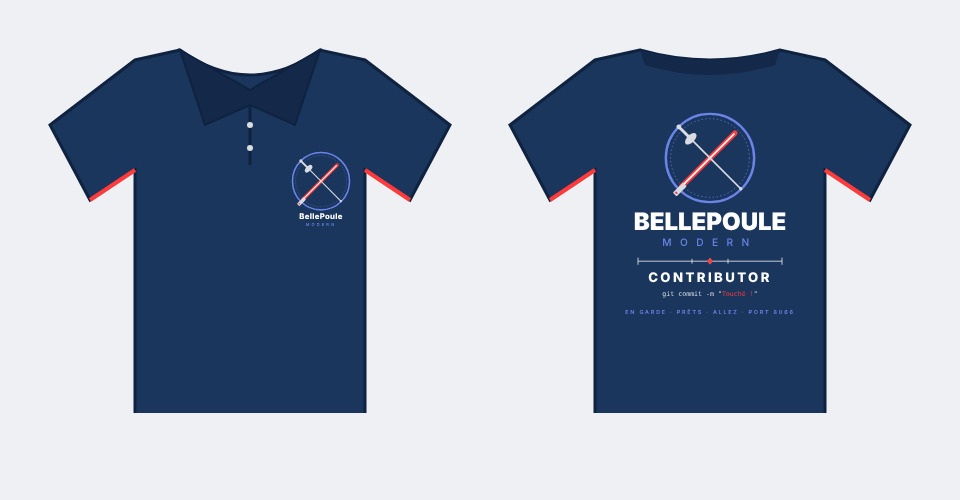
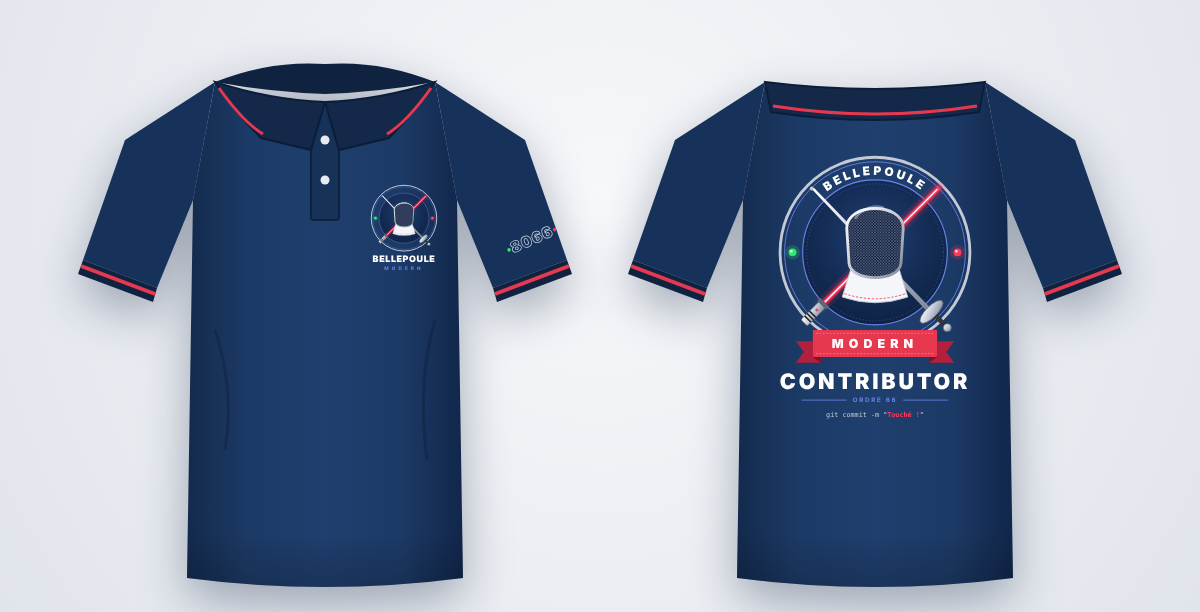
🎽 Polo contributeurs : blason masque + lames croisées
Dos : blason (masque, fleuret, sabre laser, lampes de touche), ruban MODERN, CONTRIBUTOR.
Cœur : blason réduit. Manche : 8066. Mockup refait.

Claude-Session: https://claude.ai/code/session_01FYQVi1Uu99rfAuTf6KhJkh

Changed region(s): [[0.0312, 0.09, 0.9688, 1.0]]

diff --git a/docs/merch/mockup.html b/docs/merch/mockup.html
@@ -1,15 +1,51 @@
 <!doctype html><html><head><meta charset="utf-8"><title>Polo BellePoule</title>
-<style>body{margin:0;overflow:hidden;background:#eef0f4;font-family:Inter,sans-serif;display:flex;gap:40px;justify-content:center;padding:30px}
-.v{position:relative;width:420px;text-align:center;color:#2d3748;font-weight:600}
-.v svg.shirt{width:420px}
-.print{position:absolute}</style></head><body>
-<div class="v"><svg class="shirt" viewBox="0 0 420 460"><path d="M140 20 L95 30 L10 95 L50 170 L95 140 L95 445 L325 445 L325 140 L370 170 L410 95 L325 30 L280 20 Q210 70 140 20Z" fill="#1a365d" stroke="#0f2340" stroke-width="3"/>
-<path d="M140 20 L210 60 L280 20 L255 95 L210 75 L165 95Z" fill="#14294a" stroke="#0f2340" stroke-width="2"/>
-<line x1="210" y1="75" x2="210" y2="135" stroke="#0f2340" stroke-width="3"/><circle cx="210" cy="95" r="3" fill="#d9dde3"/><circle cx="210" cy="118" r="3" fill="#d9dde3"/>
-<path d="M95 140 L50 170" stroke="#ff3b3b" stroke-width="4"/><path d="M325 140 L370 170" stroke="#ff3b3b" stroke-width="4"/></svg>
-<img class="print" src="front-chest.svg" style="left:250px;top:120px;width:62px">Avant</div>
-<div class="v"><svg class="shirt" viewBox="0 0 420 460"><path d="M140 20 L95 30 L10 95 L50 170 L95 140 L95 445 L325 445 L325 140 L370 170 L410 95 L325 30 L280 20 Q210 40 140 20Z" fill="#1a365d" stroke="#0f2340" stroke-width="3"/>
-<path d="M140 20 Q210 40 280 20 L275 35 Q210 55 145 35Z" fill="#14294a"/>
-<path d="M95 140 L50 170" stroke="#ff3b3b" stroke-width="4"/><path d="M325 140 L370 170" stroke="#ff3b3b" stroke-width="4"/></svg>
-<img class="print" src="back.svg" style="left:120px;top:80px;width:180px">Dos</div>
-</body></html>
+<style>
+html{background:radial-gradient(circle at 50% 30%,#f7f8fb,#dfe3ea);min-height:100%}body{margin:0;overflow:hidden;font-family:Inter,sans-serif;width:1200px;height:700px}
+.wrap{display:flex;justify-content:center;gap:30px;padding-top:30px}
+.v{position:relative;width:520px;text-align:center;color:#2d3748;font-weight:800;letter-spacing:4px;font-size:13px}
+.v>svg{width:520px;filter:drop-shadow(0 18px 24px rgba(15,35,64,.35))}
+.p{position:absolute}
+</style></head><body><div class="wrap">
+<div class="v">
+<svg viewBox="0 0 520 580">
+ <defs>
+  <linearGradient id="body" x1="0" x2="1"><stop offset="0" stop-color="#132a4d"/><stop offset=".22" stop-color="#1c3a66"/><stop offset=".5" stop-color="#1f3f6e"/><stop offset=".78" stop-color="#1c3a66"/><stop offset="1" stop-color="#11264a"/></linearGradient>
+  <linearGradient id="fold" x1="0" y1="0" x2="0" y2="1"><stop offset="0" stop-color="#000" stop-opacity="0"/><stop offset="1" stop-color="#000" stop-opacity=".18"/></linearGradient>
+ </defs>
+ <!-- manches -->
+ <path d="M150 52 L60 110 L18 230 L92 258 L128 170Z" fill="#17325a"/>
+ <path d="M370 52 L460 110 L502 230 L428 258 L392 170Z" fill="#17325a"/>
+ <path d="M18 230 L92 258 L88 272 L13 244Z" fill="#0f2340"/><path d="M16 236 L90 264" stroke="#e63950" stroke-width="4"/>
+ <path d="M502 230 L428 258 L432 272 L507 244Z" fill="#0f2340"/><path d="M504 236 L430 264" stroke="#e63950" stroke-width="4"/>
+ <!-- corps -->
+ <path d="M150 52 Q205 70 260 72 Q315 70 370 52 L392 170 L398 548 Q260 566 122 548 L128 170Z" fill="url(#body)"/>
+ <path d="M122 500 Q260 520 398 500 L398 548 Q260 566 122 548Z" fill="url(#fold)"/>
+ <path d="M150 300 Q170 360 160 420" stroke="#0e2141" stroke-width="3" fill="none" opacity=".5"/>
+ <path d="M370 290 Q352 350 362 430" stroke="#0e2141" stroke-width="3" fill="none" opacity=".5"/>
+ <!-- patte de boutonnage -->
+ <rect x="246" y="72" width="28" height="118" rx="3" fill="#163259" stroke="#0e2141" stroke-width="2"/>
+ <circle cx="260" cy="110" r="4.5" fill="#e8ebf1"/><circle cx="260" cy="150" r="4.5" fill="#e8ebf1"/>
+ <!-- col -->
+ <path d="M150 52 Q205 70 260 72 L246 120 L196 108 Q170 82 150 52Z" fill="#14294a" stroke="#0b1d38" stroke-width="2"/>
+ <path d="M370 52 Q315 70 260 72 L274 120 L324 108 Q350 82 370 52Z" fill="#14294a" stroke="#0b1d38" stroke-width="2"/>
+ <path d="M154 58 Q178 92 198 104" stroke="#e63950" stroke-width="3" fill="none"/>
+ <path d="M366 58 Q342 92 322 104" stroke="#e63950" stroke-width="3" fill="none"/>
+ <path d="M150 52 Q205 30 260 34 Q315 30 370 52 Q315 62 260 64 Q205 62 150 52Z" fill="#0f2340"/>
+</svg>
+<img class="p" src="front-chest.svg" style="left:300px;top:150px;width:78px">
+<img class="p" src="sleeve.svg" style="left:438px;top:200px;width:58px;transform:rotate(-24deg)">
+AVANT</div>
+<div class="v">
+<svg viewBox="0 0 520 580">
+ <path d="M150 52 L60 110 L18 230 L92 258 L128 170Z" fill="#17325a"/>
+ <path d="M370 52 L460 110 L502 230 L428 258 L392 170Z" fill="#17325a"/>
+ <path d="M18 230 L92 258 L88 272 L13 244Z" fill="#0f2340"/><path d="M16 236 L90 264" stroke="#e63950" stroke-width="4"/>
+ <path d="M502 230 L428 258 L432 272 L507 244Z" fill="#0f2340"/><path d="M504 236 L430 264" stroke="#e63950" stroke-width="4"/>
+ <path d="M150 52 Q260 66 370 52 L392 170 L398 548 Q260 566 122 548 L128 170Z" fill="url(#body)"/>
+ <path d="M122 500 Q260 520 398 500 L398 548 Q260 566 122 548Z" fill="url(#fold)"/>
+ <path d="M150 52 Q260 66 370 52 L364 82 Q260 98 156 82Z" fill="#14294a" stroke="#0b1d38" stroke-width="2"/>
+ <path d="M158 76 Q260 92 362 76" stroke="#e63950" stroke-width="3" fill="none"/>
+</svg>
+<img class="p" src="back.svg" style="left:147px;top:112px;width:226px">
+DOS</div>
+</div></body></html>
